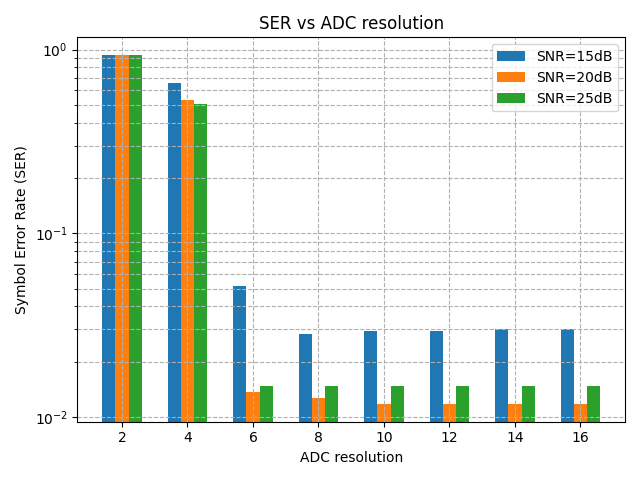
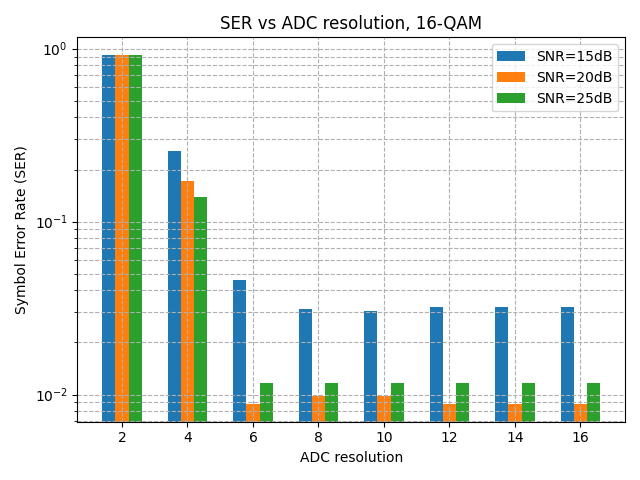
viterbi viterbi start

diff --git a/python/iib_project/carrier_recovery.py b/python/iib_project/carrier_recovery.py
@@ -1,2 +1,77 @@
+import numpy as np
+from fxpmath import Fxp
 class Carrier_Recovery:
+    def __init__(self, symbol_rate: float, sps: int, DW_acc: int, DW_io: int):
+        self.symbol_rate = symbol_rate * 10e9 # GHz -> Hz
+        self.sps = sps
+        self.acc_t = Fxp(dtype=f'fxp-s{DW_acc}/{DW_io-1}-complex')
+
+    def viterbi_viterbi_ML(self, total_linewidth: float, snr: float, symbol_energy: float, N: int):
+        """ Generate the ML filter for Viterbi-Viterbi carrier recovery algorithm. """
+        L = 2 * N + 1 #filter length
+        Ts = 1 / self.symbol_rate
+        var_linewidth = 2 * np.pi * total_linewidth * Ts
+        snr_linear = 10 ** (snr / 10) * (2 * 12.5e9) / self.symbol_rate #why is there 12.5e9 here??
+        var_eta = symbol_energy / (2 * snr_linear)
+
+        k_aux = np.zeros((N,N))
+        k = np.zeros((L,L))
+
+        for n in range(1, N + 1):
+            for m in range(1, N + 1):
+                k_aux[n-1,m-1] = min(n,m)
+
+        k[:N, :N] = np.rot90(k_aux, 2)
+        k[N+1:, N+1:] = k_aux
+
+        # covariance matrix
+        C = symbol_energy**4 * 16 * var_linewidth * k + symbol_energy**3 * 16 * var_eta * np.eye(L)
+
+        # ML filter
+        w = np.dot(np.ones((L, 1)).T, np.linalg.inv(C))
+        w = w / np.max(w)
+
+        return Fxp(w).like(self.acc_t)
+
+    def phase_unwrap(self, phase: np.ndarray) -> np.ndarray:
+        unwrapped_phase = phase.copy()
+        for i in range(1, len(phase)):
+            delta = phase[i] - phase[i - 1]
+            unwrapped_phase[i] = phase[i] + np.floor(0.5 + delta / (2 * np.pi / 4)) * (2 * np.pi / 4)
+
+        return unwrapped_phase
+
+    def viterbi_viterbi(self, x: Fxp, N: int, total_linewidth: float, snr: float, symbol_energy: float): 
+        w = self.viterbi_viterbi_ML(total_linewidth, snr, symbol_energy, N)
+        L = 2 * N + 1
+        thetas = np.zeros(len(x))
+
+        #pad input
+        x_padded = Fxp(np.zeros(len(x) + 2 * N).like(self.acc_t)
+        x_padded[N:-N] = x
+
+        #process each block
+        for i in range(len(x)):
+            x_block = x_padded[i:i+L]
+            filtered = np.complex64(x_block.dot(w))
+            thetas[i] = (np.angle(filtered) - np.pi) / 4
+
+        #unwrap phase
+        thetas_unwrapped = phase_unwrap(thetas)
+
+        #apply phase correction
+        corrections = Fxp(np.exp(-1j * thetas_unwrapped)).like(self.acc_t)
+        y = corrections * x
+
+        return y
+
+
+
+
+
+
+        
+
+
+
 

diff --git a/results/cd_equalizer/results.py b/results/cd_equalizer/results.py
@@ -21,7 +21,7 @@ def test_fft_width():
     sps = 1
     SNR = 20 
 
-    M = 64 
+    M = 16 
 
     
     modulator = Modulator(M)
@@ -37,7 +37,9 @@ def test_fft_width():
         channel.SNR = SNR
         x_noisy = channel.add_AWGN(x.reshape(1,-1))
         x_noisy = channel.add_chromatic_dispersion(x_noisy)[0]
-        x_noisy = x_noisy / np.max(np.abs(x_noisy))  
+        # scale so that 95% of values in range +- 1
+        x_noisy = x_noisy / np.percentile(np.abs(x_noisy), 95)
+
         ser_vals = []
 
         for DW_acc in DW_acc_values:
@@ -64,7 +66,7 @@ def test_fft_width():
         plt.bar(index + i * bar_width, ser_results[SNR], bar_width, label=f'SNR={SNR}dB')
     plt.xlabel('Accumulator Bit-Width')
     plt.ylabel('Symbol Error Rate (SER)')
-    plt.title('SER vs Accumulator Bit-Width')
+    plt.title(f'SER vs Accumulator Bit-Width, {M}-QAM')
     plt.xticks(index + bar_width, DW_acc_values)
     plt.yscale('log')
     plt.legend()
@@ -90,7 +92,7 @@ def test_fft_width():
         plt.bar(index + i * bar_width, ser_bits_results[SNR], bar_width, label=f'SNR={SNR}dB')
     plt.xlabel('Accumulator Bit-Width')
     plt.ylabel('Bit Operations per Correct Symbol')
-    plt.title('Bit Operations per Correct Symbol vs Accumulator Bit-Width')
+    plt.title(f'Bit Operations per Correct Symbol vs Accumulator Bit-Widthi, {M}-QAM')
     plt.xticks(index + bar_width, DW_acc_values)
     plt.yscale('log')
     plt.legend()
@@ -113,7 +115,7 @@ def test_io_width():
     wavelength = 1550
     sps = 1
 
-    M = 64 
+    M = 16 
 
     modulator = Modulator(M)
     channel = Channel(20, sps, symbol_rate, D, L, wavelength, DGDSpec=0.1, N_pmd=1)
@@ -126,7 +128,7 @@ def test_io_width():
         channel.SNR = SNR
         x_noisy = channel.add_AWGN(x.reshape(1,-1))
         x_noisy = channel.add_chromatic_dispersion(x_noisy)[0]
-        x_noisy = x_noisy / np.max(np.abs(x_noisy))  
+        x_noisy = x_noisy / np.percentile(np.abs(x_noisy), 95)
         ser_vals = []
 
         for DW_io in DW_io_values:
@@ -151,7 +153,7 @@ def test_io_width():
         plt.bar(index + i * bar_width, ser_results[SNR], bar_width, label=f'SNR={SNR}dB')
     plt.xlabel('ADC resolution')
     plt.ylabel('Symbol Error Rate (SER)')
-    plt.title('SER vs ADC resolution')
+    plt.title(f'SER vs ADC resolution, {M}-QAM')
     plt.xticks(index + bar_width, DW_io_values)
     plt.yscale('log')
     plt.legend()

diff --git a/tests/test_carrier_recovery.py b/tests/test_carrier_recovery.py
@@ -1,0 +1,44 @@
+import numpy as np
+from iib_project.carrier_recovery import Carrier_Recovery
+from iib_project.modulator import Modulator
+from iib_project.channel import Channel
+
+def test_viterbit_ML_filter():
+    # Test parameters
+    sps = 8
+    symbol_rate = 32
+    total_linewidth = 1e6  # 1 MHz
+    snr = 20  # 20 dB
+    symbol_energy = 1.0
+    N = 5  # Filter half-length
+
+    carrier_recovery = Carrier_Recovery(symbol_rate, sps)
+    w = carrier_recovery.viterbi_viterbi_ML(total_linewidth, snr, symbol_energy, N)
+    print(w.shape)
+
+def test_viterbi_viterbi():
+    #Test parameters
+    sps = 8
+    symbol_rate = 32
+    total_linewidth = 1e6
+    snr = 20
+    symbol_energy = 1
+    N = 5
+    DW_acc = 16
+    DW_io = 8
+    carrier_recovery = Carrier_Recovery(symbol_rate, sps, DW_acc, DW_io)
+    num_symbols = 2**10
+    M = 4
+    
+    #Test data, QPSK symbols with AWGN and Wiener phase noise
+    modulator = Modulator(M)
+    channel = Channel(SNR=snr, sps=sps, symbol_rate=symbol_rate, D = 1, L=1, wavelength=1, DGDSpec=0.1, N_pmd=1)
+
+    x = modulator.modulate(num_symbols)
+
+
+    
+
+if __name__ == "__main__":
+    #test_viterbit_ML_filter()
+    

diff --git a/python/iib_project/channel.py b/python/iib_project/channel.py
@@ -78,6 +78,8 @@ class Channel:
     
         return EOutput
 
+    def add_phase_noise(self, 
+
          
 
         
